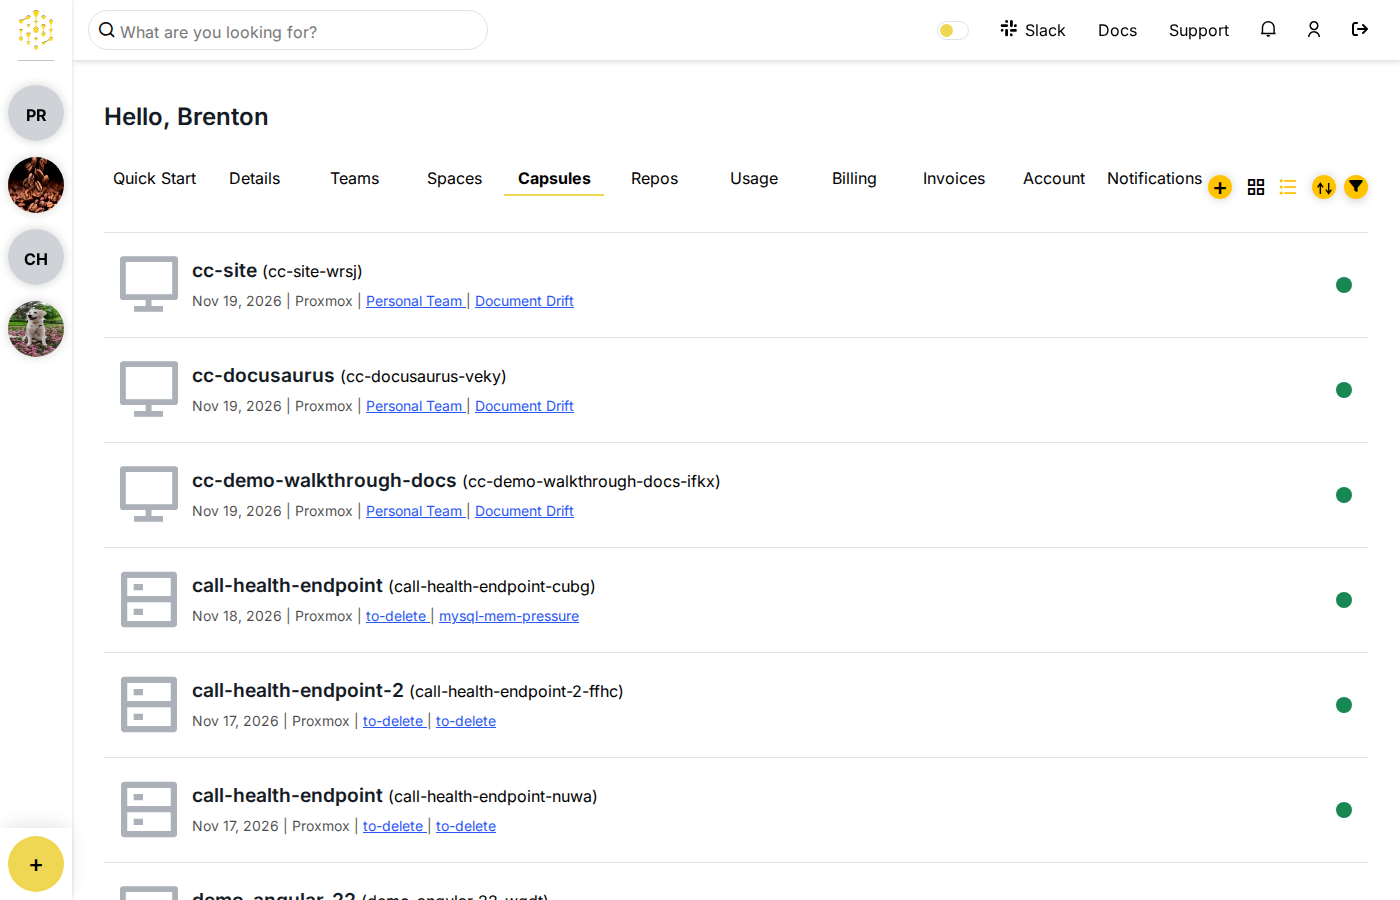
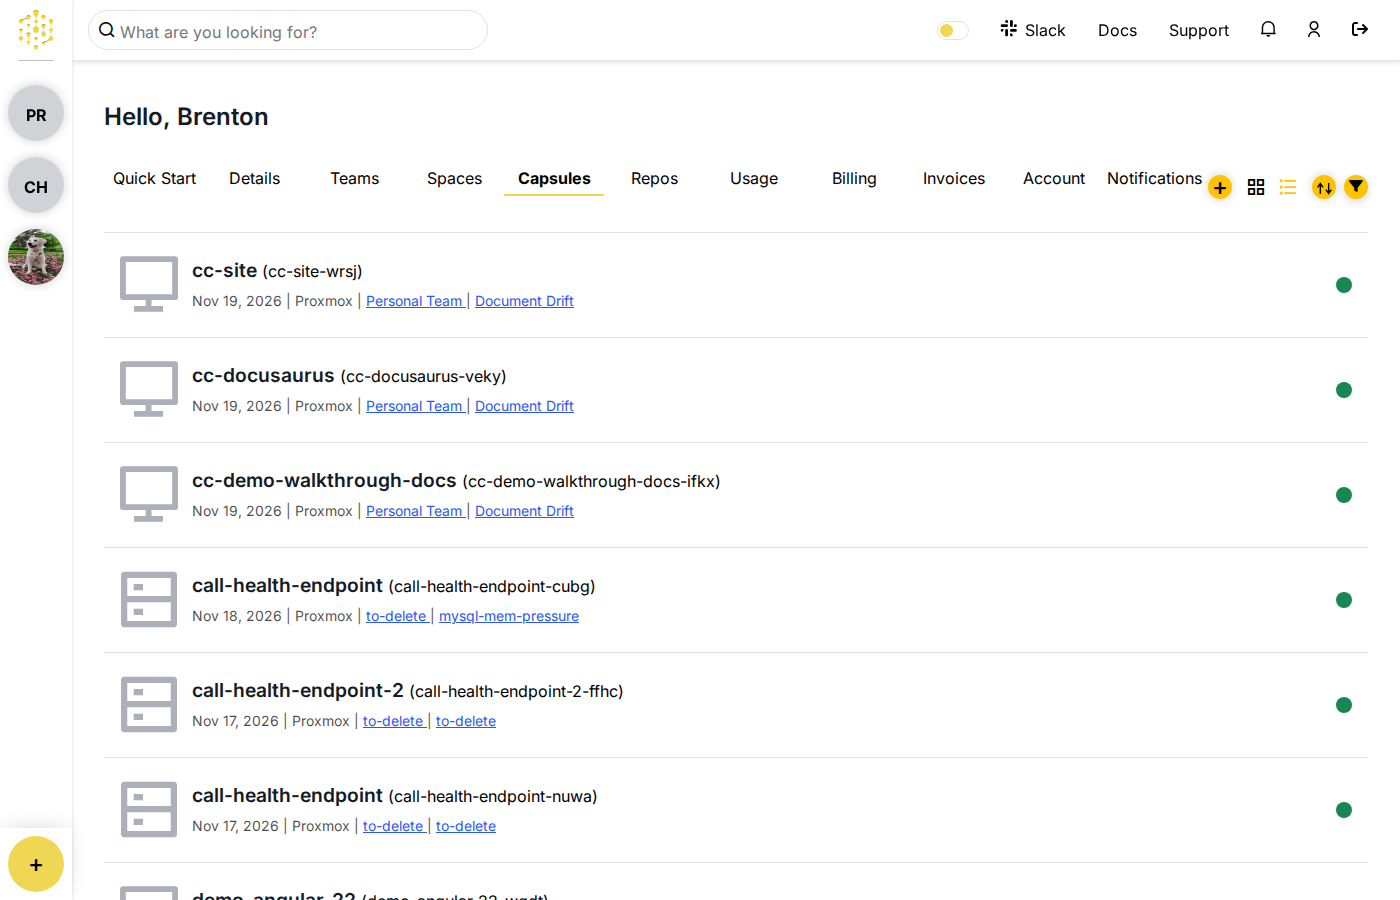
docs: clarify Capsules + control and refresh Java guide screenshots
Audited test-platform.codecapsules.io on 2026-11-19. Angular and React
guides pass end-to-end. Java guide step 6 was ambiguous (two + links);
document the list-header control and update step 6–7 screenshots.

Changed region(s): [[0.0, 0.1556, 0.0614, 0.4044]]

diff --git a/reports/2026-11-19-create-java-backend-capsule.md b/reports/2026-11-19-create-java-backend-capsule.md
@@ -1,0 +1,43 @@
+# Audit: create-java-backend-capsule (2026-11-19)
+
+**Platform:** https://test-platform.codecapsules.io
+
+## Summary
+
+| Guide | feature_functional | doc_fidelity | doc_completeness |
+|---|---|---|---|
+| create-java-backend-capsule | pass | drift (step 6 prose, pre-PR) | pass |
+
+## Step execution
+
+| step_id | doc_quote | action_taken | visible_evidence | result |
+|---|---|---|---|---|
+| 1 | Open test-platform; **Log in** | `goto` platform root | Create your account, Log in | pass |
+| 2 | **Welcome back** / **Email** | **Log in** link | Email textbox | pass |
+| 3 | **Password** | observe form | Password textbox | pass |
+| 4 | **Log in** | submit | `/dash/overview/quick-start` | pass |
+| 5 | **Capsules** sidebar | click **Capsules** | `/dash/overview/capsules` | pass |
+| 6 | **+** → **New Capsule** | click list-header **+** (`add-btn me-3`) | 2 visible **+** links; wizard opens at `/new/capsule` | pass |
+| 7 | **Backend** in **Choose a Capsule** | open combobox, select **Backend** | “Node, Java, Go or Python deployments” | pass |
+| 8 | **Choose a Team** / **Next** | observe team field (no deploy submit) | Search/Select a team, **Next** | pass |
+
+## Doc fidelity
+
+| step_id | fidelity |
+|---|---|
+| 1–5 | pass |
+| 6 | drift (ambiguous **+** before PR) |
+| 7–8 | pass |
+
+## Mismatches
+
+- Doc: “Click the **+** control” → Screen: two **+** links (sidebar vs list header).
+
+## Flags
+
+- **Ambiguous controls:** two **+** links on Capsules (fixed in PR prose).
+- **Screenshot drift:** `step-4-capsules-plus.png` and `step-5-backend-wizard.png` updated from this run.
+
+## PR
+
+`docs/audit-2026-11-19-java-drift` — clarify header **+** control; refresh step 6–7 screenshots.

diff --git a/reports/2026-11-19-create-angular-frontend-capsule.md b/reports/2026-11-19-create-angular-frontend-capsule.md
@@ -1,0 +1,41 @@
+# Audit: create-angular-frontend-capsule (2026-11-19)
+
+**Platform:** https://test-platform.codecapsules.io
+
+## Summary
+
+| Guide | feature_functional | doc_fidelity | doc_completeness |
+|---|---|---|---|
+| create-angular-frontend-capsule | pass | pass | pass |
+
+## Step execution
+
+| step_id | doc_quote | action_taken | visible_evidence | result |
+|---|---|---|---|---|
+| 1 | Open test-platform; **Create your account** / **Log in** | `goto` platform root | Create your account, Log in | pass |
+| 2 | **Welcome back** / **Email** | follow **Log in** link | Welcome back, Email textbox | pass |
+| 3 | **Password** textbox | observe login form | Password textbox | pass |
+| 4 | **Log in** button | fill credentials, submit | `/dash/overview/quick-start` | pass |
+| 5 | **Quick Start** + heading | click **Quick Start** | “What type of capsule would you like to deploy?” | pass |
+| 6 | **Angular** **Deploy Now** | click **Deploy Now** on Angular card | `/new/capsule?capsuleType=frontend` | pass |
+| 7 | **New Capsule** wizard | observe **Capsule Details** (no deploy submit) | New Capsule, Choose a Capsule, Frontend, Next, Cancel | pass |
+
+## Doc fidelity
+
+| step_id | fidelity |
+|---|---|
+| 1–7 | pass |
+
+## Mismatches
+
+None.
+
+## Flags
+
+- **Outcome gap:** none (wizard reached before create submit; final deploy not submitted per policy).
+- **Ambiguous controls:** none.
+- **Screenshot drift:** wizard screenshot matches repo hash (`step-5-new-capsule-wizard.png`).
+
+## PR
+
+None required this run.

diff --git a/reports/2026-11-19-create-react-frontend-capsule.md b/reports/2026-11-19-create-react-frontend-capsule.md
@@ -1,0 +1,41 @@
+# Audit: create-react-frontend-capsule (2026-11-19)
+
+**Platform:** https://test-platform.codecapsules.io
+
+## Summary
+
+| Guide | feature_functional | doc_fidelity | doc_completeness |
+|---|---|---|---|
+| create-react-frontend-capsule | pass | pass | pass |
+
+## Step execution
+
+| step_id | doc_quote | action_taken | visible_evidence | result |
+|---|---|---|---|---|
+| 1 | Open test-platform; **Log in** | `goto` platform root | Create your account, Log in | pass |
+| 2 | **Welcome back** / **Email** | follow **Log in** | Email textbox | pass |
+| 3 | **Password** | observe form | Password textbox | pass |
+| 4 | **Log in** | submit credentials | `/dash/overview/quick-start` | pass |
+| 5 | **Quick Start** | click sidebar **Quick Start** | deploy chooser heading | pass |
+| 6 | **React** **Deploy Now** | click React card **Deploy Now** | `/new/capsule?capsuleType=frontend` | pass |
+| 7 | **New Capsule** wizard | observe wizard (no deploy submit) | New Capsule, Next | pass |
+
+## Doc fidelity
+
+| step_id | fidelity |
+|---|---|
+| 1–7 | pass |
+
+## Mismatches
+
+None.
+
+## Flags
+
+- **Outcome gap:** none.
+- **Ambiguous controls:** none.
+- **Screenshot drift:** none (`step-5-new-capsule-wizard.png` hash matches capture).
+
+## PR
+
+None required this run.

diff --git a/reports/2026-11-19-cron-docs-audit.md b/reports/2026-11-19-cron-docs-audit.md
@@ -1,0 +1,22 @@
+# Docs ↔ product audit (2026-11-19)
+
+**Platform:** https://test-platform.codecapsules.io  
+**Manifest:** `cc-site/DOCUMENTED_FEATURES.MD` (3 features) — guides in sync, no add/remove.
+
+## Summary
+
+| Guide | feature_functional | doc_fidelity | doc_completeness |
+|---|---|---|---|
+| create-angular-frontend-capsule | pass | pass | pass |
+| create-react-frontend-capsule | pass | pass | pass |
+| create-java-backend-capsule | pass | drift → pass (PR) | pass |
+
+Per-guide reports: `reports/2026-11-19-create-*-capsule.md`
+
+## PRs opened
+
+- **Java drift:** branch `docs/audit-2026-11-19-java-drift` — disambiguate Capsules **+** link; update screenshots for steps 6–7.
+
+## Skipped
+
+- Angular / React drift PR — all steps pass; no mismatch bullets; wizard screenshots unchanged (SHA-256 match with live capture).

diff --git a/docs/guides/create-java-backend-capsule.md b/docs/guides/create-java-backend-capsule.md
@@ -14,7 +14,7 @@ Walk through creating a **Java** backend as a **Backend Capsule** on the Code Ca
 3. Enter your password in the **Password** textbox (placeholder “Enter your password”).
 4. Click the **Log in** button.
 5. Click **Capsules** in the sidebar.
-6. Click the **+** control to open **New Capsule**.
+6. On the **Capsules** list, click the **+** link in the list header (next to the search field)—not the larger **+** in the left sidebar. You should navigate to **New Capsule**.
 7. Under **Capsule Details**, open **Choose a Capsule** (placeholder “Search/Select a Capsule Type”) and select **Backend** (description includes “Node, Java, Go or Python deployments”).
 8. Under **Choose a Team** (placeholder “Search/Select a team”), pick your team, then click **Next** to continue **Plan** / **Configure** / **Deploy**.
 
